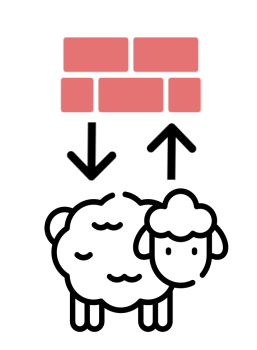
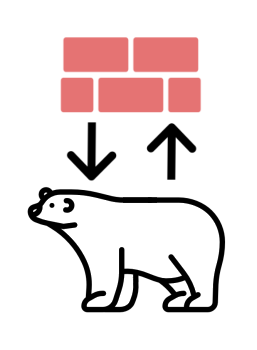
feat: png converted to svg path and adjusted, added new svg's to all screens/fxmls and to GameConstants, placeBuilding now places an Iglo, new trade image adapted

Changed region(s): [[0.0934, 0.5143, 0.9027, 0.9714], [0.3424, 0.6286, 0.4981, 0.6571]]

diff --git a/src/main/java/de/uniks/pioneers/GameConstants.java b/src/main/java/de/uniks/pioneers/GameConstants.java
@@ -17,8 +17,8 @@ public class GameConstants {
     public static final String BUILD = "build";
 
     // svg contents
-    public static final String SETTLEMENT_SVG = "M 12.679688 11.316406 L 0.3125 22.601562 L 0.152344 23.316406 C 0.0078125 23.996094 0.0078125 24.074219 0.179688 24.75 C 0.554688 26.203125 0.546875 26.195312 1.332031 26.578125 C 1.992188 26.902344 2.09375 26.929688 3.253906 26.988281 C 3.933594 27.015625 4.914062 27.074219 5.453125 27.101562 L 6.414062 27.160156 L 6.414062 48.835938 L 6.8125 49.40625 L 7.21875 49.972656 L 14.292969 49.980469 L 21.367188 49.980469 L 21.914062 49.492188 L 22.453125 49.007812 L 22.394531 42.230469 L 22.332031 35.453125 L 25.953125 35.472656 L 29.574219 35.503906 L 29.539062 41.914062 C 29.5 49.226562 29.480469 49.023438 30.226562 49.644531 L 30.632812 49.980469 L 37.066406 49.980469 C 44.613281 49.980469 44.359375 50.007812 45.167969 49.140625 L 45.660156 48.613281 L 45.660156 27.027344 L 46.914062 27.082031 C 47.800781 27.132812 48.453125 27.113281 49.199219 27.007812 L 50.226562 26.863281 L 51.046875 26.023438 L 51.859375 25.179688 L 51.914062 24.273438 L 51.972656 23.367188 L 49.386719 20.738281 L 46.792969 18.109375 L 46.792969 4.148438 L 45.886719 3.25 L 39.945312 3.183594 L 34 3.125 L 33.507812 3.394531 L 33.027344 3.660156 L 32.972656 5.628906 L 30 2.914062 C 26.6875 -0.113281 27.160156 0.191406 25.566406 0.0664062 L 25.046875 0.0195312 Z M 12.679688 11.316406";
-
+    public static final String SETTLEMENT_SVG = "M 25.359375 7.1289062 C 25.234375 7.1289062 25.007812 7.2187496 24.863281 7.3359375 C 24.35547 7.7343741 24.66797 8.59375 25.332031 8.59375 C 25.664062 8.59375 26.074219 8.1953117 26.074219 7.859375 C 26.074219 7.5390623 25.671875 7.1289063 25.359375 7.1289062 z M 13.964844 7.421875 C 13.828125 7.421875 13.613281 7.5078116 13.496094 7.6171875 C 13.378906 7.7343744 13.28125 7.8984381 13.28125 8 C 13.28125 8.1171879 13.171875 8.2226566 12.976562 8.2890625 C 12.402345 8.4843753 12.246095 8.9531255 12.597656 9.40625 C 12.703125 9.5390619 12.890625 9.667969 13.015625 9.6875 C 13.15625 9.707031 13.242188 9.7968746 13.261719 9.9296875 C 13.300779 10.187499 13.710938 10.546875 13.964844 10.546875 C 14.218749 10.546875 14.628906 10.187499 14.667969 9.9296875 C 14.687499 9.7968746 14.773439 9.707031 14.914062 9.6875 C 15.148438 9.648438 15.527344 9.2382803 15.527344 9.0234375 C 15.527344 8.7187498 15.281249 8.3984382 14.980469 8.3007812 C 14.757812 8.2226563 14.648437 8.1250004 14.648438 8.0078125 C 14.648438 7.7421888 14.265624 7.421875 13.964844 7.421875 z M 37.640625 8.28125 C 37.540589 8.2869873 37.43457 8.3125 37.324219 8.359375 C 37.101562 8.4453119 36.992188 8.5742194 36.953125 8.7695312 C 36.914065 8.976562 36.816406 9.0703121 36.59375 9.140625 C 35.945313 9.3359378 35.945313 10.148438 36.59375 10.449219 C 36.765625 10.527349 36.914062 10.664062 36.914062 10.75 C 36.914062 11.007812 37.343751 11.328125 37.664062 11.328125 C 37.976562 11.328125 38.378906 10.968749 38.378906 10.683594 C 38.378906 10.605464 38.437496 10.546875 38.515625 10.546875 C 38.796875 10.546875 39.160156 10.148437 39.160156 9.8242188 C 39.160156 9.4921881 38.828125 9.0820313 38.5625 9.0820312 C 38.48437 9.0820313 38.359375 8.9374998 38.300781 8.75 C 38.183594 8.4277343 37.940734 8.264038 37.640625 8.28125 z M 20.578125 8.7890625 C 20.449219 8.7890625 20.226562 8.8749996 20.078125 8.9921875 C 19.570313 9.3945301 19.882813 10.253906 20.546875 10.253906 C 20.878906 10.253906 21.289062 9.8515612 21.289062 9.5234375 C 21.289062 9.1992188 20.890625 8.7890625 20.578125 8.7890625 z M 31.322266 10.939453 C 31.120606 10.942383 30.925781 11.001953 30.828125 11.113281 C 30.566406 11.40625 30.617192 11.960939 30.917969 12.195312 C 31.0625 12.3125 31.25 12.402344 31.347656 12.402344 C 31.445316 12.402344 31.632812 12.312504 31.777344 12.195312 C 32.089843 11.953126 32.140619 11.359375 31.855469 11.101562 C 31.732422 10.990235 31.523926 10.936523 31.322266 10.939453 z M 4.8613281 13.771484 C 4.6601565 13.773437 4.4648434 13.832032 4.3671875 13.945312 C 4.1015618 14.238281 4.1484383 14.796875 4.453125 15.03125 C 4.6015619 15.148438 4.7851566 15.234375 4.8828125 15.234375 C 4.9804694 15.234375 5.1640621 15.148435 5.3125 15.03125 C 5.6249997 14.785156 5.6718747 14.1875 5.390625 13.9375 C 5.2695316 13.824219 5.0624998 13.769531 4.8613281 13.771484 z M 21.419922 14.519531 C 20.553512 14.512922 19.698594 14.535207 19.269531 14.589844 C 15.94385 15.013333 13.079376 16.02321 10.568359 17.658203 C 9.8762375 18.108864 9.8649557 18.129334 9.9160156 18.955078 C 9.979255 19.977783 10.171367 21.371833 10.339844 22.035156 C 10.676086 23.359004 11.111587 23.840091 11.617188 23.447266 C 11.866435 23.253614 11.933986 23.171234 12.644531 22.166016 C 13.77093 20.572483 14.414749 19.879544 15.072266 19.556641 C 15.400165 19.395617 15.442166 19.390625 16.40625 19.390625 L 17.400391 19.390625 L 17.914062 19.638672 C 18.553418 19.947601 19.057898 20.326936 19.576172 20.886719 C 20.437678 21.817226 21.239306 23.010867 22.480469 25.210938 C 23.778516 27.511839 24.370976 28.475751 24.693359 28.808594 C 25.049664 29.176457 25.231746 29.215292 25.626953 29.013672 C 26.146476 28.748631 26.498679 28.112411 27.017578 26.507812 C 28.040976 23.343144 28.319818 22.651908 28.958984 21.677734 C 29.886359 20.264291 30.921707 19.356732 32.433594 18.632812 C 32.773611 18.470006 33.052734 18.32599 33.052734 18.3125 C 33.052734 18.263809 31.983317 17.559394 31.398438 17.222656 C 28.780646 15.715491 26.689996 15.015465 23.642578 14.623047 C 23.164548 14.561487 22.286332 14.52614 21.419922 14.519531 z M 40.908203 15.332031 C 40.724526 15.341044 40.53955 15.417485 40.429688 15.527344 C 39.804688 16.152343 40.683595 17.15625 41.359375 16.570312 C 41.882811 16.125001 41.621094 15.332031 40.945312 15.332031 C 40.933106 15.332031 40.920448 15.33143 40.908203 15.332031 z M 24.201172 16.894531 C 24.244914 16.895139 24.290748 16.89681 24.339844 16.902344 C 24.648926 16.937182 24.816958 17.063683 24.960938 17.369141 C 25.023265 17.501371 25.143116 17.618554 25.28125 17.683594 C 25.559396 17.814564 25.720275 18.052871 25.763672 18.302734 C 25.686237 18.024509 25.367722 17.675781 25.15625 17.675781 C 25.07031 17.675781 24.980469 17.570311 24.941406 17.429688 C 24.8125 16.914064 24.101561 16.71875 23.730469 17.089844 C 23.625 17.195312 23.535156 17.363281 23.535156 17.460938 C 23.535156 17.570311 23.417969 17.675781 23.203125 17.753906 C 22.531251 18 22.531251 18.886719 23.203125 19.082031 C 23.417969 19.148441 23.523438 19.257812 23.59375 19.472656 C 23.676416 19.753723 23.867318 19.914358 24.083984 19.955078 C 23.988883 19.94262 23.900968 19.91469 23.835938 19.869141 C 23.7616 19.817073 23.634164 19.643108 23.552734 19.482422 C 23.438988 19.257954 23.355283 19.174534 23.193359 19.121094 C 23.077447 19.08284 22.911809 18.965417 22.824219 18.861328 C 22.686369 18.697459 22.668339 18.631483 22.693359 18.371094 C 22.723971 18.05251 22.864414 17.877667 23.261719 17.664062 C 23.367158 17.607375 23.499192 17.453949 23.576172 17.294922 C 23.714312 17.009566 23.894976 16.890276 24.201172 16.894531 z M 25.771484 18.505859 C 25.749358 18.776011 25.591301 19.031599 25.292969 19.15625 C 25.180039 19.203435 25.025699 19.344179 24.943359 19.474609 C 24.862437 19.602798 24.724366 19.765458 24.634766 19.835938 C 24.55128 19.901607 24.42923 19.940382 24.302734 19.955078 C 24.534782 19.916239 24.765625 19.751465 24.902344 19.460938 C 24.980474 19.289062 25.117188 19.140625 25.203125 19.140625 C 25.415527 19.140625 25.716683 18.794694 25.771484 18.505859 z M 34.404297 19.351562 L 33.517578 19.804688 C 32.366505 20.393444 31.898978 20.702203 31.330078 21.242188 L 30.865234 21.683594 L 31.521484 21.716797 C 31.882576 21.735127 33.189801 21.755119 34.427734 21.761719 L 36.679688 21.773438 L 36.542969 21.578125 C 36.468145 21.470315 35.956726 20.925421 35.40625 20.367188 L 34.404297 19.351562 z M 8.34375 19.365234 C 8.2346568 19.394601 6.03125 21.621662 6.03125 21.705078 C 6.03125 21.753469 6.4142516 21.773438 7.359375 21.773438 L 8.6875 21.773438 L 8.65625 21.636719 C 8.6390529 21.562081 8.5696321 21.028286 8.5019531 20.449219 C 8.4342742 19.870152 8.3645332 19.382114 8.3476562 19.365234 C 8.3469975 19.364576 8.3454816 19.364768 8.34375 19.365234 z M 16.349609 20.832031 C 16.254347 20.833766 16.161538 20.84374 16.074219 20.863281 C 15.741089 20.937832 15.211126 21.276794 14.902344 21.613281 L 14.755859 21.773438 L 15.927734 21.773438 C 16.572087 21.773268 17.361764 21.755685 17.683594 21.734375 L 18.269531 21.695312 L 18.046875 21.517578 C 17.480575 21.067414 16.864027 20.822662 16.349609 20.832031 z M 45.033203 21.580078 C 44.868766 21.580464 44.713135 21.632813 44.609375 21.75 C 44.523435 21.84375 44.433594 22.011719 44.394531 22.117188 C 44.367191 22.226561 44.210938 22.375 44.042969 22.429688 C 43.429688 22.664061 43.417966 23.445312 44.015625 23.730469 C 44.1875 23.808599 44.367188 23.964845 44.394531 24.070312 C 44.5 24.421875 44.746094 24.609375 45.085938 24.609375 C 45.449218 24.609375 45.800781 24.328124 45.800781 24.023438 C 45.800781 23.898438 45.867191 23.828125 45.984375 23.828125 C 46.085938 23.828125 46.269531 23.749995 46.398438 23.640625 C 46.867187 23.273438 46.570311 22.363281 45.984375 22.363281 C 45.867188 22.363281 45.800781 22.296871 45.800781 22.167969 C 45.800781 21.826904 45.394965 21.579228 45.033203 21.580078 z M 29.820312 23.271484 L 29.662109 23.591797 C 29.303927 24.326876 28.602493 26.456009 28.689453 26.542969 C 28.71792 26.571439 29.052609 26.602631 29.433594 26.613281 C 29.814577 26.623931 30.773744 26.639384 31.564453 26.646484 L 33.001953 26.658203 L 32.958984 25.015625 C 32.935344 24.111676 32.903792 23.358387 32.888672 23.341797 C 32.873557 23.325207 32.176238 23.302156 31.339844 23.291016 L 29.820312 23.271484 z M 19.572266 23.279297 L 18.355469 23.294922 C 17.686416 23.303592 17.117797 23.333305 17.091797 23.359375 C 17.065807 23.385445 17.033531 24.138736 17.019531 25.033203 L 16.994141 26.658203 L 19.263672 26.658203 L 21.535156 26.658203 L 21.417969 26.431641 C 21.298901 26.199955 20.064941 24.082728 19.748047 23.566406 L 19.572266 23.279297 z M 4.8300781 23.28125 L 4.4335938 23.949219 C 3.9970916 24.684579 3.1716429 26.250425 3.109375 26.460938 C 3.0702984 26.59304 3.0779195 26.594381 3.78125 26.613281 C 4.1729226 26.623801 5.0157269 26.639384 5.6542969 26.646484 L 6.8164062 26.658203 L 6.8164062 24.970703 L 6.8164062 23.28125 L 5.8222656 23.28125 L 4.8300781 23.28125 z M 8.3242188 23.28125 L 8.3242188 24.970703 L 8.3242188 26.658203 L 11.912109 26.658203 L 15.5 26.658203 L 15.5 24.970703 L 15.5 23.28125 L 14.640625 23.283203 L 13.78125 23.287109 L 13.419922 23.773438 C 12.780825 24.632709 12.298274 24.980356 11.582031 25.095703 C 11.148367 25.165543 10.683567 25.099342 10.324219 24.916016 C 10.044985 24.773562 9.5687579 24.261239 9.3964844 23.917969 C 9.329023 23.783546 9.207783 23.584372 9.1269531 23.476562 C 8.992608 23.297374 8.9527786 23.28125 8.6523438 23.28125 L 8.3242188 23.28125 z M 34.5 23.28125 L 34.5 24.970703 L 34.5 26.658203 L 35.992188 26.650391 C 36.813207 26.646251 37.968835 26.626209 38.560547 26.605469 L 39.636719 26.568359 L 39.162109 25.632812 C 38.901615 25.118639 38.50181 24.380011 38.271484 23.990234 L 37.851562 23.28125 L 36.175781 23.28125 L 34.5 23.28125 z M 4.1015625 28.166016 L 4.1015625 29.855469 L 4.1015625 31.544922 L 7.6894531 31.544922 L 11.279297 31.544922 L 11.279297 29.855469 L 11.279297 28.166016 L 7.6894531 28.166016 L 4.1015625 28.166016 z M 21.591797 28.166016 L 21.591797 29.855469 L 21.591797 31.544922 L 25.181641 31.544922 L 28.769531 31.544922 L 28.769531 29.855469 L 28.769531 28.166016 L 28.476562 28.166016 C 28.128923 28.166016 28.100352 28.195534 27.773438 28.859375 C 27.597399 29.216843 27.417822 29.459616 27.082031 29.796875 C 26.571107 30.310033 26.26767 30.480768 25.625 30.615234 C 24.845729 30.778281 24.351236 30.625388 23.730469 30.029297 C 23.51664 29.823967 23.174736 29.409077 22.970703 29.107422 C 22.394246 28.255152 22.294835 28.166016 21.912109 28.166016 L 21.591797 28.166016 z M 30.277344 28.166016 L 30.277344 29.855469 L 30.277344 31.544922 L 31.912109 31.544922 L 33.546875 31.544922 L 34.007812 31.222656 C 35.090293 30.467992 35.747201 30.218735 36.775391 30.171875 L 37.455078 30.140625 L 37.455078 29.152344 L 37.455078 28.166016 L 33.865234 28.166016 L 30.277344 28.166016 z M 39.023438 28.166016 L 39.023438 29.162109 L 39.023438 30.15625 L 39.871094 30.15625 C 40.65026 30.15625 40.716743 30.147711 40.689453 30.050781 C 40.673113 29.992729 40.642384 29.850479 40.621094 29.734375 C 40.599806 29.618271 40.499508 29.218894 40.398438 28.845703 L 40.214844 28.166016 L 39.619141 28.166016 L 39.023438 28.166016 z M 14.484375 28.173828 C 13.830456 28.176603 13.348772 28.184288 13.224609 28.197266 L 12.847656 28.236328 L 12.847656 29.890625 L 12.847656 31.544922 L 16.474609 31.544922 L 20.101562 31.544922 L 20.070312 29.914062 C 20.053143 29.017098 20.019634 28.263804 19.996094 28.240234 C 19.954614 28.198707 16.446132 28.165504 14.484375 28.173828 z M 2.4980469 28.257812 C 2.480698 28.256816 2.462243 28.294975 2.4257812 28.375 C 2.3170583 28.613621 2.0143423 29.797619 1.8710938 30.548828 C 1.8015115 30.913726 1.7323849 31.27103 1.7167969 31.34375 C 1.6916479 31.461086 1.7176094 31.4795 1.9453125 31.5 C 2.0864469 31.51271 2.290627 31.527403 2.3984375 31.533203 L 2.59375 31.544922 L 2.5898438 29.990234 C 2.5875118 29.136043 2.5650996 28.387372 2.5410156 28.326172 C 2.5238807 28.282635 2.5115404 28.258588 2.4980469 28.257812 z M 44.560547 31.646484 L 44.902344 32.123047 C 45.345345 32.738238 45.51554 33.076974 45.630859 33.574219 C 45.748792 34.082718 45.832838 36.029755 45.835938 38.330078 C 45.837217 39.29208 45.857406 40.384622 45.878906 40.757812 L 45.917969 41.435547 L 47.107422 41.435547 C 48.141173 41.435547 48.306976 41.422727 48.378906 41.335938 C 48.446976 41.253813 48.462891 40.613506 48.462891 37.732422 L 48.462891 34.228516 L 48.166016 33.662109 C 47.997029 33.339835 47.725418 32.940426 47.533203 32.732422 C 46.88791 32.034123 46.268743 31.75602 45.208984 31.6875 L 44.560547 31.646484 z M 38.376953 31.671875 C 36.576107 31.669381 36.2039 31.732042 35.646484 32.005859 C 35.018564 32.314312 34.354051 32.981113 34.054688 33.603516 C 33.746788 34.243658 33.717997 34.654885 33.716797 38.277344 C 33.715867 41.03509 33.725257 41.365708 33.810547 41.398438 C 33.863019 41.418577 35.31023 41.435547 37.027344 41.435547 L 40.150391 41.435547 L 40.1875 40.488281 C 40.228628 39.435148 40.26317 39.336756 40.664062 39.117188 C 40.871793 39.003431 40.88337 39.002923 41.162109 39.109375 C 41.574058 39.266699 41.686899 39.542829 41.724609 40.5 C 41.740309 40.898404 41.775378 41.269692 41.804688 41.326172 C 41.84411 41.402127 41.955974 41.435342 42.234375 41.451172 C 42.441379 41.462942 42.997996 41.477975 43.470703 41.484375 L 44.330078 41.496094 L 44.326172 38.857422 C 44.321418 35.400033 44.269033 34.278203 44.091797 33.837891 C 43.838639 33.208958 43.257312 32.449219 43.029297 32.449219 C 42.777339 32.449219 42.132905 33.32007 41.923828 33.941406 C 41.829367 34.222132 41.780149 34.596256 41.730469 35.417969 C 41.658785 36.60374 41.616804 36.755972 41.3125 36.972656 C 41.046168 37.162299 40.771168 37.142765 40.447266 36.910156 L 40.175781 36.716797 L 40.207031 35.744141 C 40.26806 33.76363 40.387153 33.258296 41.017578 32.304688 L 41.419922 31.695312 L 39.242188 31.677734 C 38.921931 31.675178 38.634217 31.672231 38.376953 31.671875 z M 1.5078125 33.052734 L 1.5078125 34.710938 L 1.5078125 36.369141 L 4.1621094 36.369141 L 6.8164062 36.369141 L 6.8164062 34.710938 L 6.8164062 33.052734 L 4.1621094 33.052734 L 1.5078125 33.052734 z M 8.3242188 33.052734 L 8.3242188 34.710938 L 8.3242188 36.369141 L 11.912109 36.369141 L 15.5 36.369141 L 15.5 34.710938 L 15.5 33.052734 L 11.912109 33.052734 L 8.3242188 33.052734 z M 17.007812 33.052734 L 17.007812 34.710938 L 17.007812 36.369141 L 20.597656 36.369141 L 24.185547 36.369141 L 24.185547 34.710938 L 24.185547 33.052734 L 20.597656 33.052734 L 17.007812 33.052734 z M 25.814453 33.052734 L 25.814453 34.710938 L 25.814453 36.369141 L 29.011719 36.369141 L 32.207031 36.369141 L 32.207031 35.529297 C 32.207031 34.593994 32.285661 33.902898 32.443359 33.433594 C 32.547035 33.125045 32.547196 33.121021 32.423828 33.087891 C 32.355121 33.069441 30.83966 33.053187 29.056641 33.052734 L 25.814453 33.052734 z M 1.5 37.9375 L 1.5195312 39.585938 C 1.5395799 41.361638 1.5475377 41.405417 1.859375 41.453125 C 1.9481717 41.466715 2.1490714 41.481328 2.3066406 41.486328 L 2.59375 41.496094 L 2.59375 39.716797 L 2.59375 37.9375 L 2.046875 37.9375 L 1.5 37.9375 z M 4.1621094 37.9375 L 4.1621094 39.685547 L 4.1621094 41.435547 L 7.7207031 41.435547 L 11.279297 41.435547 L 11.279297 39.685547 L 11.279297 37.9375 L 7.7207031 37.9375 L 4.1621094 37.9375 z M 12.847656 37.9375 L 12.847656 39.685547 L 12.847656 41.435547 L 16.425781 41.435547 L 20.005859 41.435547 L 20.044922 40.757812 C 20.066422 40.384622 20.083803 39.596624 20.083984 39.007812 L 20.083984 37.9375 L 16.464844 37.9375 L 12.847656 37.9375 z M 21.591797 37.9375 L 21.591797 39.710938 L 21.591797 41.486328 L 25.134766 41.453125 C 27.083648 41.434975 28.690468 41.409434 28.705078 41.396484 C 28.719688 41.38353 28.743283 40.598924 28.757812 39.654297 L 28.785156 37.9375 L 25.189453 37.9375 L 21.591797 37.9375 z M 30.277344 37.9375 L 30.277344 39.71875 L 30.277344 41.498047 L 31.197266 41.458984 C 31.703145 41.437064 32.1205 41.415809 32.125 41.412109 C 32.12951 41.408386 32.153574 40.625583 32.177734 39.671875 L 32.220703 37.9375 L 31.25 37.9375 L 30.277344 37.9375 z";
+    public static final String CITY_SVG = "M 29.484375 20.734375 C 29.34375 20.710938 29.210938 20.910156 28.859375 21.605469 C 28.472656 22.375 28.183594 23.179688 28.035156 23.910156 C 27.878906 24.679688 27.886719 26.816406 28.046875 27.574219 C 28.171875 28.164062 28.519531 29.121094 28.828125 29.738281 C 29.6875 31.441406 31.3125 33.035156 33.03125 33.859375 C 33.703125 34.179688 34.796875 34.546875 35.34375 34.628906 C 35.980469 34.722656 38.394531 34.664062 38.933594 34.542969 C 39.847656 34.332031 41.066406 33.832031 41.882812 33.332031 L 42.101562 33.195312 L 35.886719 27.011719 C 32.464844 23.609375 29.613281 20.792969 29.542969 20.753906 C 29.523438 20.742188 29.503906 20.738281 29.484375 20.734375 Z M 41.621094 21.054688 C 41.566406 21 36.835938 23.144531 36.835938 23.222656 C 36.835938 23.25 37.425781 23.839844 38.148438 24.53125 L 39.460938 25.792969 L 39.714844 25.296875 C 40.25 24.246094 41.664062 21.097656 41.621094 21.054688 Z M 30.6875 36.425781 C 30.675781 36.421875 30.667969 36.421875 30.664062 36.425781 C 30.597656 36.496094 29.269531 41.152344 28.632812 43.542969 L 28.414062 44.371094 L 29.65625 44.390625 C 32.078125 44.425781 39.144531 44.421875 39.59375 44.382812 L 40.046875 44.339844 L 38.976562 41.234375 C 38.386719 39.523438 37.890625 38.113281 37.871094 38.09375 C 37.851562 38.074219 37.3125 38.03125 36.667969 37.992188 C 34.621094 37.878906 32.9375 37.472656 31.429688 36.734375 C 31.082031 36.5625 30.777344 36.4375 30.6875 36.425781 Z M 34.304688 47.679688 C 24.875 47.679688 15.441406 47.726562 15.230469 47.820312 C 15.167969 47.84375 15.097656 47.914062 15.070312 47.972656 C 15.042969 48.035156 15.007812 48.699219 14.996094 49.453125 L 14.96875 50.824219 L 53.644531 50.824219 L 53.617188 49.453125 C 53.605469 48.699219 53.570312 48.035156 53.542969 47.972656 C 53.515625 47.914062 53.445312 47.84375 53.382812 47.820312 C 53.171875 47.726562 43.738281 47.679688 34.304688 47.679688 Z M 18.742188 54.113281 L 18.742188 68.042969 L 26.1875 68.042969 L 26.214844 64.449219 C 26.234375 61.957031 26.269531 60.78125 26.320312 60.621094 C 26.441406 60.238281 26.746094 59.882812 27.085938 59.714844 L 27.398438 59.5625 L 34.015625 59.542969 C 38.152344 59.53125 40.785156 59.550781 41.042969 59.589844 C 41.542969 59.667969 41.902344 59.894531 42.128906 60.28125 C 42.371094 60.691406 42.410156 61.320312 42.410156 64.898438 L 42.414062 68.042969 L 49.871094 68.042969 L 49.871094 54.113281 Z M 29.507812 62.753906 L 29.507812 68.042969 L 32.683594 68.042969 L 32.683594 62.753906 Z M 35.925781 62.753906 L 35.925781 68.042969 L 39.105469 68.042969 L 39.105469 62.753906 Z M 35.925781 62.753906";
     public static final double HOUSE_WIDTH = 30;
     public static final double HOUSE_HEIGHT = 30;
     public static final Color RED = Color.RED;

diff --git a/src/main/java/de/uniks/pioneers/controller/subcontroller/BuildingPointController.java b/src/main/java/de/uniks/pioneers/controller/subcontroller/BuildingPointController.java
@@ -9,8 +9,11 @@ import io.reactivex.rxjava3.disposables.CompositeDisposable;
 import javafx.scene.input.MouseEvent;
 import javafx.scene.layout.*;
 import javafx.scene.paint.Color;
+import javafx.scene.paint.Paint;
 import javafx.scene.shape.Circle;
 import javafx.scene.shape.SVGPath;
+import javafx.scene.shape.StrokeType;
+
 import java.util.ArrayList;
 
 import static de.uniks.pioneers.Constants.FX_SCHEDULER;
@@ -100,30 +103,26 @@ public class BuildingPointController {
         // create new settlement svg
         SVGPath settlementSVG = new SVGPath();
         settlementSVG.setContent(GameConstants.SETTLEMENT_SVG);
-        final Region svgShape = new Region();
-        svgShape.setShape(settlementSVG);
-        svgShape.setMinSize(GameConstants.HOUSE_WIDTH, GameConstants.HOUSE_HEIGHT);
-        svgShape.setPrefSize(GameConstants.HOUSE_WIDTH, GameConstants.HOUSE_HEIGHT);
-        svgShape.setMaxSize(GameConstants.HOUSE_WIDTH, GameConstants.HOUSE_HEIGHT);
-        svgShape.setBorder(new Border(new BorderStroke(Color.BLACK,
-                BorderStrokeStyle.SOLID, CornerRadii.EMPTY, BorderWidths.DEFAULT)));
+        settlementSVG.setFill(Color.WHITE);
+        settlementSVG.setStrokeWidth(1.5);
+        settlementSVG.setStrokeType(StrokeType.OUTSIDE);
 
         // set color of building
         disposable.add(ingameService.getPlayer(building.gameId(), building.owner())
                 .observeOn(FX_SCHEDULER)
                 .subscribe(player -> {
-                    svgShape.setStyle("-fx-background-color: " + player.color());
+                    settlementSVG.setStroke(Paint.valueOf(player.color()));
                 }));
 
         // set position on game field
-        svgShape.setLayoutX(view.getLayoutX() - GameConstants.HOUSE_WIDTH/2);
-        svgShape.setLayoutY(view.getLayoutY() - GameConstants.HOUSE_HEIGHT/2);
-        this.fieldpane.getChildren().add(svgShape);
+        settlementSVG.setLayoutX(view.getLayoutX() - GameConstants.HOUSE_WIDTH/1.2);
+        settlementSVG.setLayoutY(view.getLayoutY() - GameConstants.HOUSE_HEIGHT);
+        this.fieldpane.getChildren().add(settlementSVG);
 
         // set building of this controller
         this.building = building;
 
-        System.out.println("Placed on: " + svgShape.getLayoutX() + " " + svgShape.getLayoutY());
+        System.out.println("Placed on: " + settlementSVG.getLayoutX() + " " + settlementSVG.getLayoutY());
     }
 
     private void info(MouseEvent mouseEvent){

diff --git a/src/main/java/de/uniks/pioneers/controller/subcontroller/ColorPickerController.java b/src/main/java/de/uniks/pioneers/controller/subcontroller/ColorPickerController.java
@@ -21,20 +21,20 @@ public class ColorPickerController {
     {
         this.colorPicker = colorPicker;
         this.houseSVG = houseSVG;
-        this.houseSVG.setFill(Paint.valueOf(colorPicker.getValue().toString()));
+        this.houseSVG.setStroke(Paint.valueOf(colorPicker.getValue().toString()));
         this.initPickerColors();
         this.changePickerColors();
     }
 
     public void setColor() {
         this.hexColor = "#" + colorPicker.getValue().toString().substring(2,8);
-        this.houseSVG.setFill(Paint.valueOf(hexColor));
+        this.houseSVG.setStroke(Paint.valueOf(hexColor));
     }
 
     public void setColor(String hexColor) {
         this.hexColor = hexColor;
         this.colorPicker.setValue(Color.valueOf(hexColor));
-        this.houseSVG.setFill(Paint.valueOf(hexColor));
+        this.houseSVG.setStroke(Paint.valueOf(hexColor));
     }
 
     public String getColor() {
@@ -66,19 +66,19 @@ public class ColorPickerController {
         rgb[1] = color.getGreen();
         rgb[2] = color.getBlue();
 
-        if (rgb[0] > 0.04045) {
+        if(rgb[0] > 0.04045) {
             rgb[0] = Math.pow((rgb[0] + 0.055) / 1.055, 2.4);
         } else {
             rgb[0] = rgb[0] / 12.92;
         }
 
-        if (rgb[1] > 0.04045) {
+        if(rgb[1] > 0.04045) {
             rgb[1] = Math.pow((rgb[1] + 0.055) / 1.055, 2.4);
         } else {
             rgb[1] = rgb[1] / 12.92;
         }
 
-        if (rgb[2] > 0.04045) {
+        if(rgb[2] > 0.04045) {
             rgb[2] = Math.pow((rgb[2] + 0.055) / 1.055, 2.4);
         } else {
             rgb[2] = rgb[2] / 12.92;
@@ -96,19 +96,19 @@ public class ColorPickerController {
         xyz[1] = xyz[1] / 100.0;
         xyz[2] = xyz[2] / 108.883;
 
-        if (xyz[0] > .008856) {
+        if(xyz[0] > 0.008856) {
             xyz[0] = Math.pow(xyz[0], (1.0 / 3.0));
         } else {
             xyz[0] = (xyz[0] * 7.787) + (16.0 / 116.0);
         }
 
-        if (xyz[1] > 0.008856) {
+        if(xyz[1] > 0.008856) {
             xyz[1] = Math.pow(xyz[1], 1.0 / 3.0);
         } else {
             xyz[1] = (xyz[1] * 7.787) + (16.0 / 116.0);
         }
 
-        if (xyz[2] > 0.008856) {
+        if(xyz[2] > 0.008856) {
             xyz[2] = Math.pow(xyz[2], 1.0 / 3.0);
         } else {
             xyz[2] = (xyz[2] * 7.787) + (16.0 / 116.0);

diff --git a/src/main/java/de/uniks/pioneers/controller/subcontroller/PlayerEntryController.java b/src/main/java/de/uniks/pioneers/controller/subcontroller/PlayerEntryController.java
@@ -33,7 +33,7 @@ public class PlayerEntryController implements Controller {
         this.playerEntry.setId(playerID);
         this.playerAvatar.setImage(playerAvatar);
         this.playerNameLabel.setText(playerName);
-        this.playerHouseSVG.setFill(Paint.valueOf(hexColor));
+        this.playerHouseSVG.setStroke(Paint.valueOf(hexColor));
         this.playerHouseSVG.setVisible(false);
         this.playerColor = hexColor;
         this.ready = false;
@@ -41,12 +41,10 @@ public class PlayerEntryController implements Controller {
 
     @Override
     public void init() {
-
     }
 
     @Override
     public void stop() {
-
     }
 
     @Override
@@ -78,7 +76,7 @@ public class PlayerEntryController implements Controller {
     }
 
     public void setColor(String hexColor) {
-        this.playerHouseSVG.setFill(Paint.valueOf(hexColor));
+        this.playerHouseSVG.setStroke(Paint.valueOf(hexColor));
         this.playerColor = hexColor;
     }
 

diff --git a/src/main/java/de/uniks/pioneers/controller/IngameScreenController.java b/src/main/java/de/uniks/pioneers/controller/IngameScreenController.java
@@ -25,6 +25,7 @@ import javafx.scene.image.ImageView;
 import javafx.scene.input.KeyEvent;
 import javafx.scene.input.MouseEvent;
 import javafx.scene.layout.Pane;
+import javafx.scene.paint.Color;
 import javafx.scene.paint.ImagePattern;
 import javafx.scene.shape.Circle;
 import javafx.scene.shape.Polygon;
@@ -242,8 +243,12 @@ public class IngameScreenController implements Controller {
     public void setPlayerColor(String hexColor)
     {
         streetSVG.setFill(Paint.valueOf(hexColor));
-        houseSVG.setFill(Paint.valueOf(hexColor));
-        citySVG.setFill(Paint.valueOf(hexColor));
+        houseSVG.setFill(Color.WHITE);
+        houseSVG.setStroke(Paint.valueOf(hexColor));
+        houseSVG.setStrokeWidth(1.5);
+        citySVG.setFill(Color.WHITE);
+        citySVG.setStroke(Paint.valueOf(hexColor));
+        citySVG.setStrokeWidth(2.0);
     }
 
     public void giveUp(ActionEvent actionEvent) {

diff --git a/src/main/java/de/uniks/pioneers/controller/NewGameScreenLobbyController.java b/src/main/java/de/uniks/pioneers/controller/NewGameScreenLobbyController.java
@@ -117,6 +117,12 @@ public class NewGameScreenLobbyController implements Controller {
         colorPickerController = new ColorPickerController(colorPicker, houseSVG);
         this.reactivateReadyButton();
 
+        try {
+            clientAvatar.setImage(new Image(userService.getCurrentUser().avatar()));
+        } catch (IllegalArgumentException | NullPointerException e) {
+            clientAvatar.setImage(new Image(Constants.DEFAULT_AVATAR));
+        }
+
         // set on close request ...
 
 
